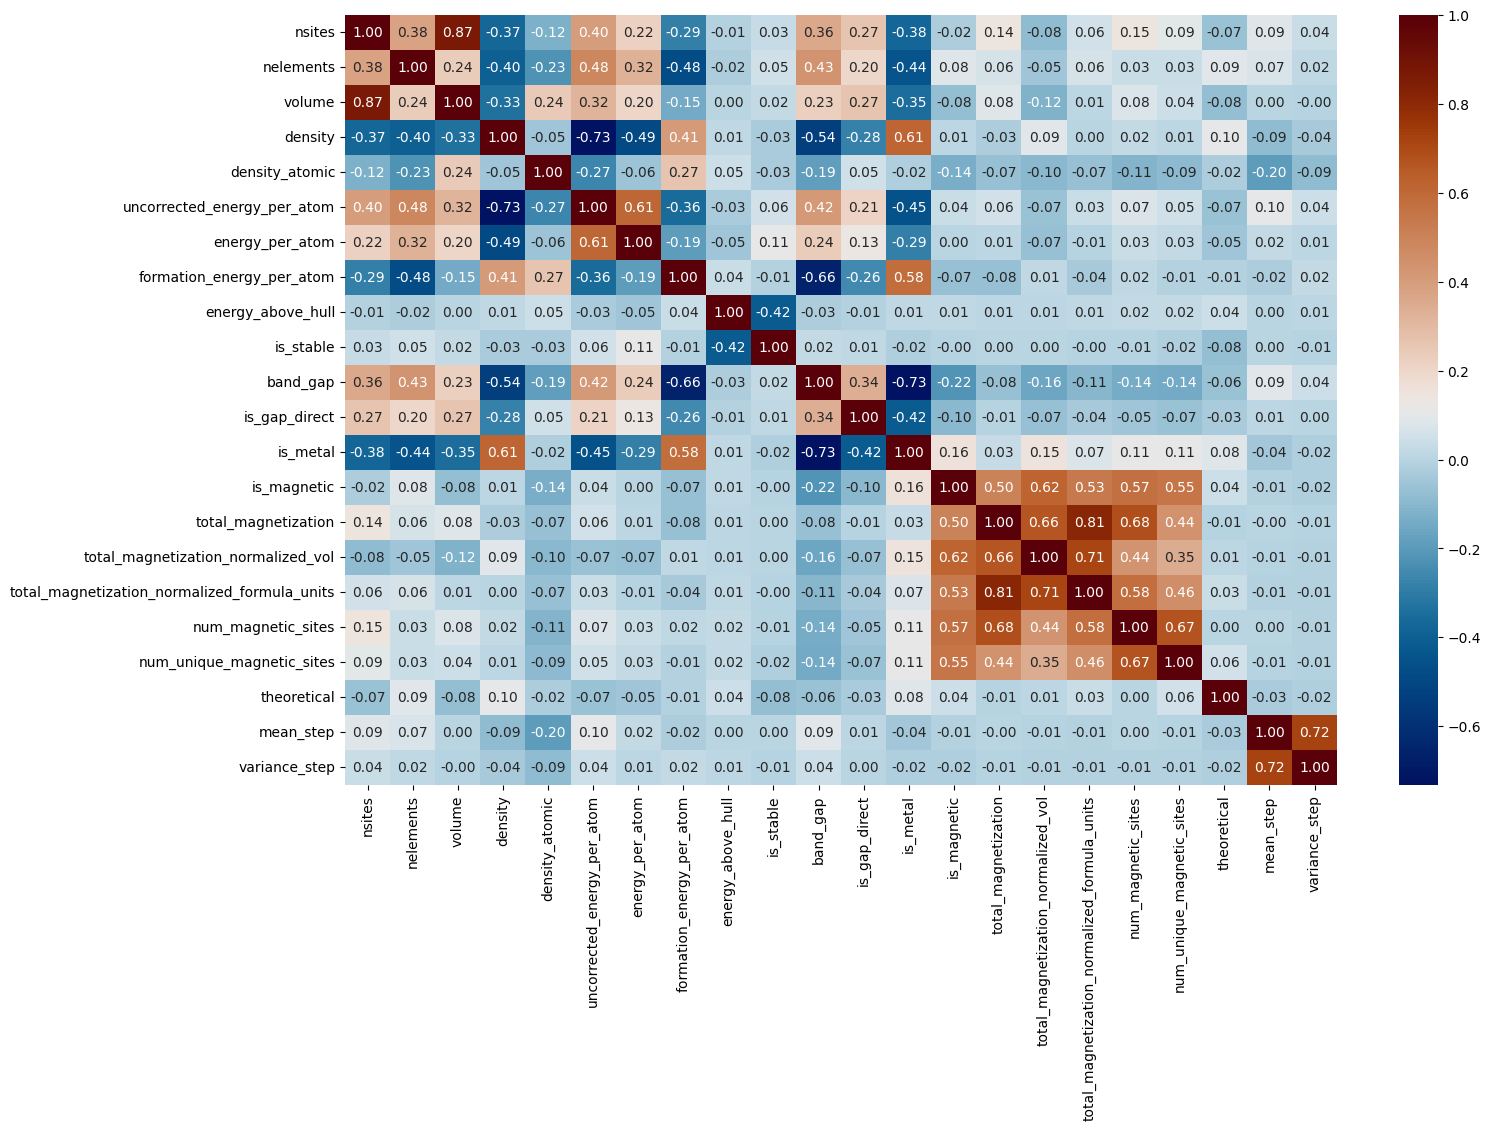
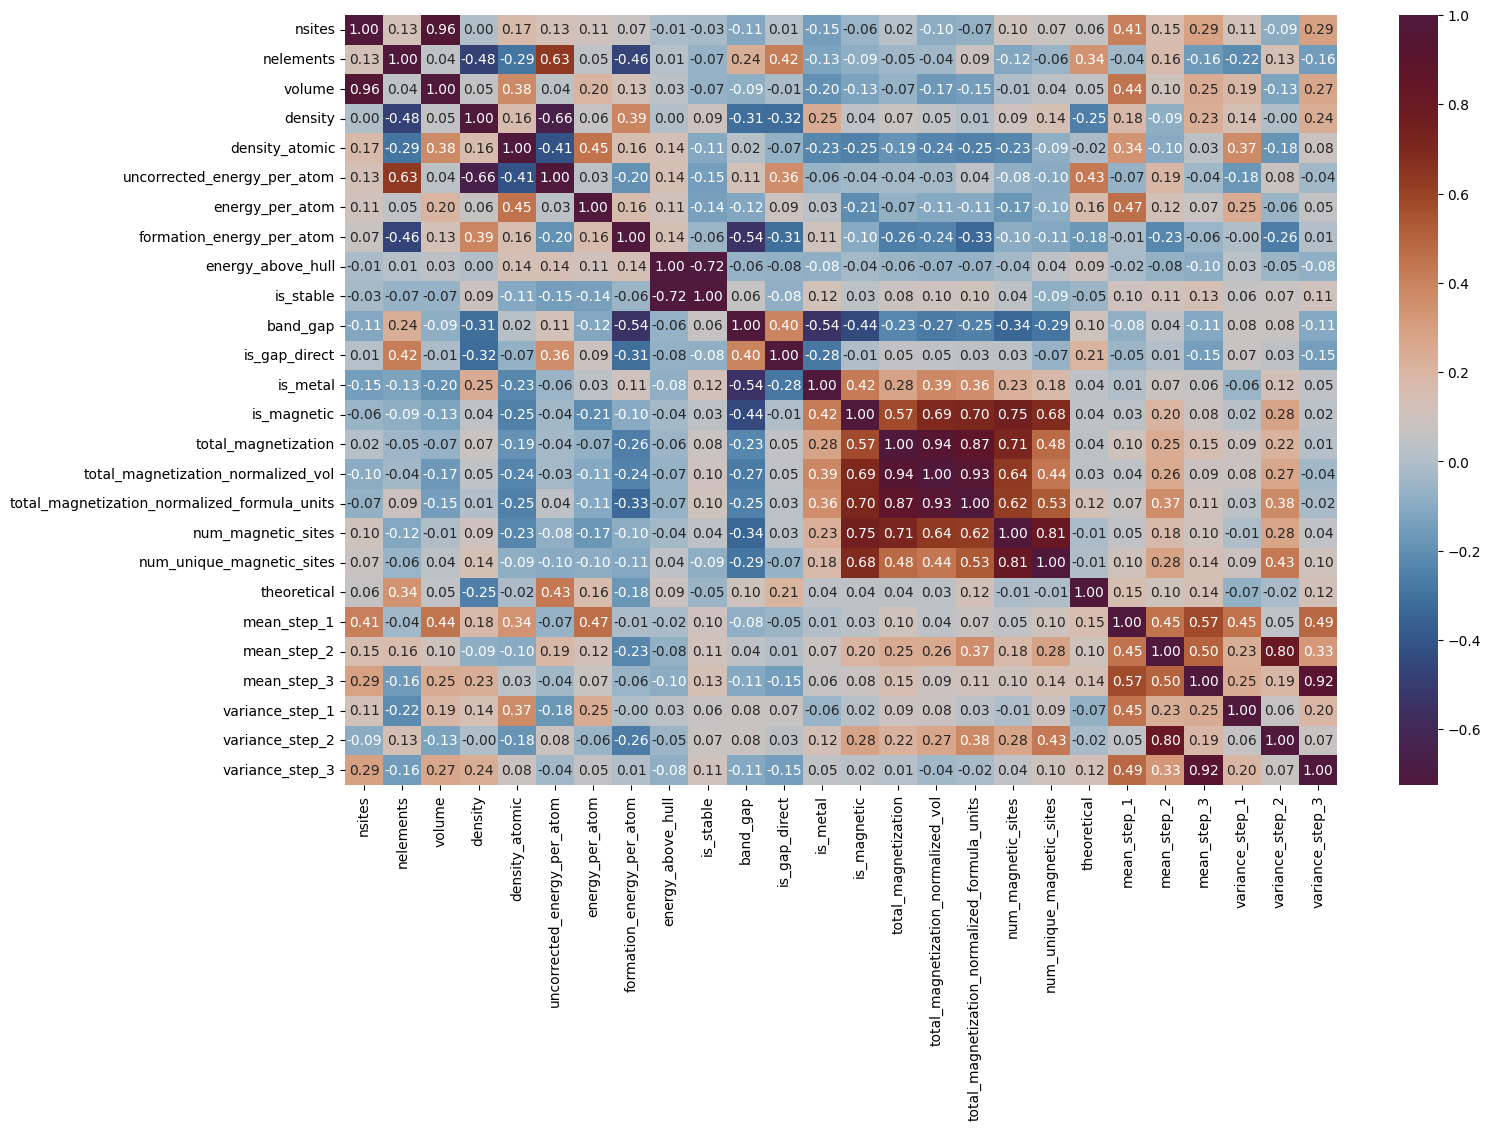
plots

diff --git a/main/src/visualisation_for_paper.py b/main/src/visualisation_for_paper.py
@@ -526,8 +526,21 @@ import seaborn as sns
 from scipy.stats import pearsonr, spearmanr, f_oneway, ttest_ind
 from cmcrameri import cm
 
+metrics = ["cv_step", "max.std_step", "max_step", 
+           "mean_step", "std_step", "stdp_step", "variance_step"]
+
+df_wide = df_final_updated.pivot_table(
+    index=["mpd_id", "model"], 
+    columns="step", 
+    values=metrics
+)
+
+df_wide.columns = [f"{metric}_{int(step)}" for metric, step in df_wide.columns]
+df_wide = df_wide.reset_index()
+df_wide = df_wide[df_wide.model=='Dataset1']
+
 mpd_descriptors = pd.read_csv('all_mpd_decr.csv').dropna(axis=1).drop(columns='deprecated')
-data = df_final_updated[['mpd_id','model', 'mean_step', 'variance_step']].sort_values(by='variance_step', ascending=True).head(101)
+data = df_wide[['mpd_id','mean_step_1', 'mean_step_2', 'mean_step_3', 'variance_step_1', 'variance_step_2', 'variance_step_3']].sort_values(by='variance_step', ascending=True).head(101)
 
 df = pd.merge(mpd_descriptors,data,on='mpd_id')
 

diff --git a/main/src/collect_descripors.py b/main/src/collect_descripors.py
@@ -2,6 +2,7 @@ from mp_api.client import MPRester
 import pandas as pd 
 
 
+mpdkey = 'EU50H01SryQmbO1G1gvMtY9g2hwXlOvK'
 
 Material_Project_Stable = pd.read_pickle('/home/lklochko/Desktop/ProjPostDoc/GitHub/ParAIsite/nopush/structures_scalers/mpd_ids_srtcuture_table.pkl')
 ids  = Material_Project_Stable.mpd_id
